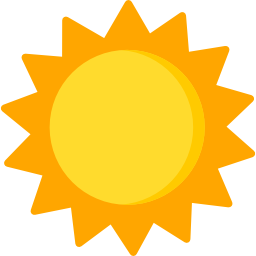
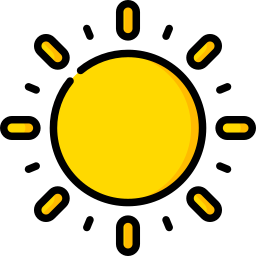
adicao-novas-informacoes
Finalmente adicionei as novas informações aos cards

Também adicionei uma nova imagem no lugar da sunny.png antiga

diff --git a/Projeto 8 - Site de clima (API)/index.html b/Projeto 8 - Site de clima (API)/index.html
@@ -118,16 +118,8 @@
                         <div class="col-auto">
                             <div class="card info bg-secondary-subtle">
                                 <div class="card-body">
-                                    <h5 class="card-title fs-5">Chance de chuvas</h5>
-                                    <p class="card-text text-center fs-3">25%</p>
-                                </div>
-                            </div>
-                        </div>
-                        <div class="col-auto">
-                            <div class="card info bg-secondary-subtle">
-                                <div class="card-body">
                                     <h5 class="card-title fs-5" style="color: rgb(60, 60, 235);">Mínima</h5>
-                                    <p class="card-text text-center fs-3">5°C</p>
+                                    <p class="card-text text-center fs-3" id="temp-minima">5°C</p>
                                 </div>
                             </div>
                         </div>
@@ -135,7 +127,7 @@
                             <div class="card info bg-secondary-subtle">
                                 <div class="card-body">
                                     <h5 class="card-title fs-5" style="color: rgb(165, 50, 50);">Máxima</h5>
-                                    <p class="card-text text-center fs-3">25°C</p>
+                                    <p class="card-text text-center fs-3" id="temp-maxima">25°C</p>
                                 </div>
                             </div>
                         </div>
@@ -144,7 +136,7 @@
                             <div class="card info bg-secondary-subtle">
                                 <div class="card-body">
                                     <h5 class="card-title fs-5" style="color: rgb(81, 105, 105);">Umidade relativa</h5>
-                                    <p class="card-text text-center fs-3">2%</p>
+                                    <p class="card-text text-center fs-3" id="umidade-relativa">2%</p>
                                 </div>
                             </div>
                         </div>
@@ -178,8 +170,7 @@
                 .then(data => {
                     let condicaoAtual = data.current.condition.text
 
-                    let nomeCondicaoClima = document.getElementById("condicao-clima")
-                    nomeCondicaoClima.innerText = condicaoAtual
+                    document.getElementById("condicao-clima").innerText = condicaoAtual
 
                     if (data.current.is_day == 1) {
                         document.getElementsByTagName("body")[0].style.backgroundImage = "url('/Projeto 8 - Site de clima (API)/img/img-blur.png')";
@@ -197,19 +188,20 @@
                     iconeClima.setAttribute("src", enderecoImg)
                     iconeClima.setAttribute("alt", condicaoAtual)
 
-                    let nomeLocal = document.getElementById("nome-local")
-
-                    nomeLocal.innerText = (data.location.name).toUpperCase()
+                    document.getElementById("nome-local").innerText = (data.location.name).toUpperCase()
 
                     let pais = data.location.country
-
-                    let tempAtual = document.getElementById("temp-atual")
-                    tempAtual.innerText = data.current.temp_c + "°C"
+ 
+                    document.getElementById("temp-atual").innerText = data.current.temp_c + "°C"
 
                     fetch(`https://api.weatherapi.com/v1/forecast.json?key=${chaveAPI}&q=${local}&days=1`)
                         .then(responseFcast => responseFcast.json())
                         .then(dataFcast => {
-                            //É daqui que eu vou tirar a chance de chuva
+                            console.log(dataFcast)
+
+                            document.getElementById("temp-minima").innerText = dataFcast.forecast.forecastday[0].day.mintemp_c + "°C"
+                            document.getElementById("temp-maxima").innerText = dataFcast.forecast.forecastday[0].day.maxtemp_c + "°C"
+                            document.getElementById("umidade-relativa").innerText = dataFcast.forecast.forecastday[0].day.avghumidity + "%"
                         })
 
                     fetch(`https://restcountries.com/v3.1/name/${pais.toLowerCase()}`)
